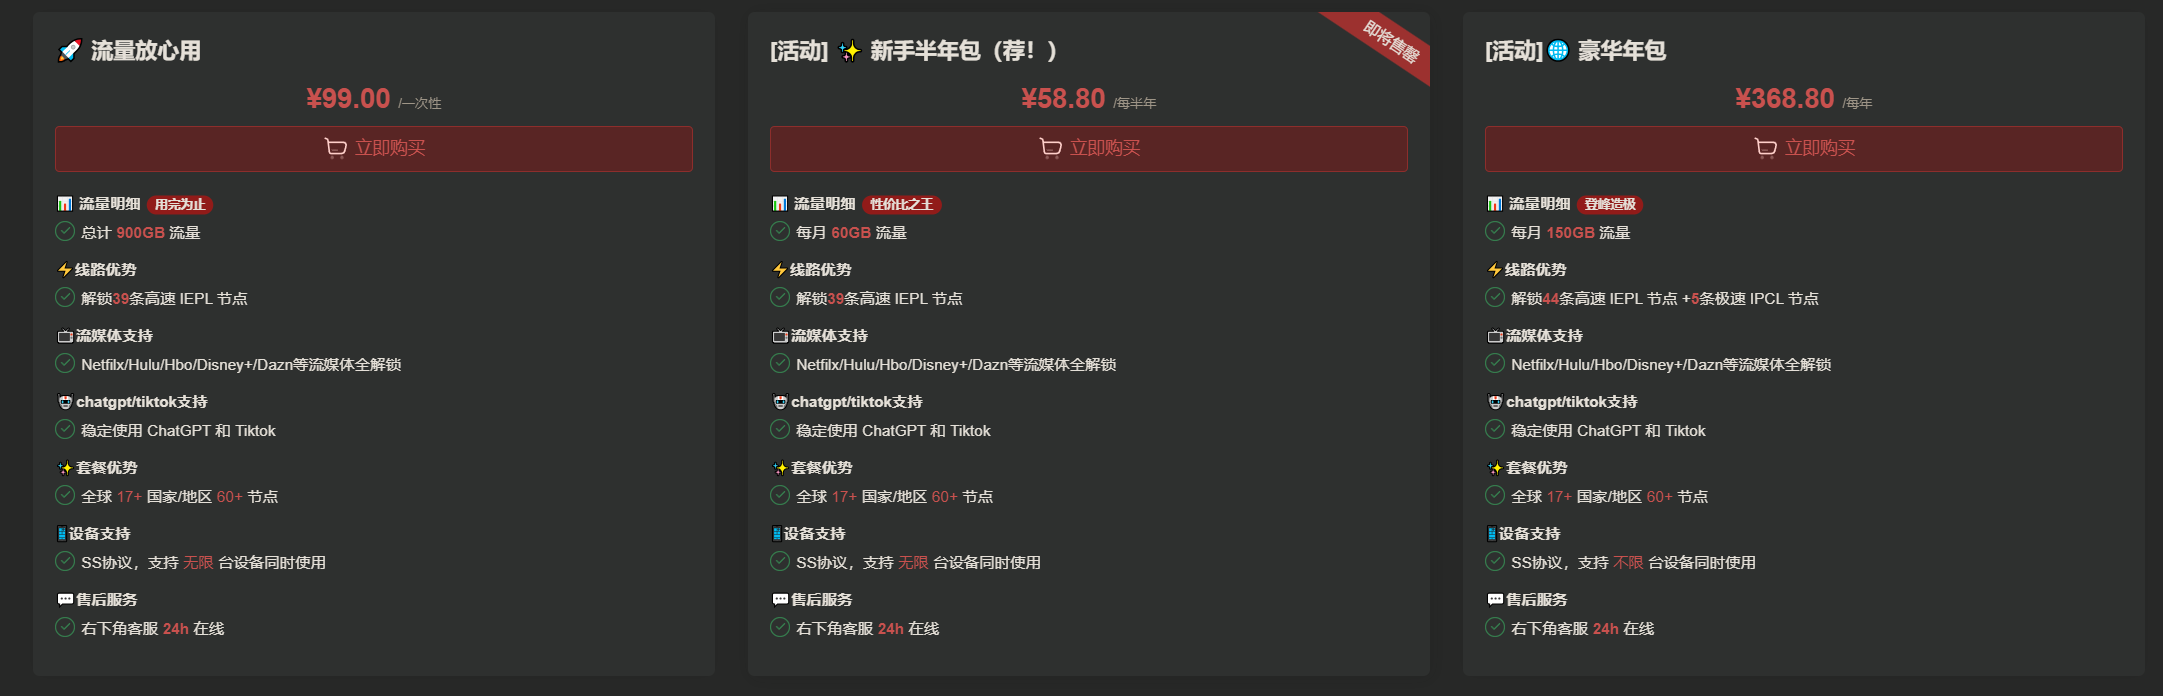
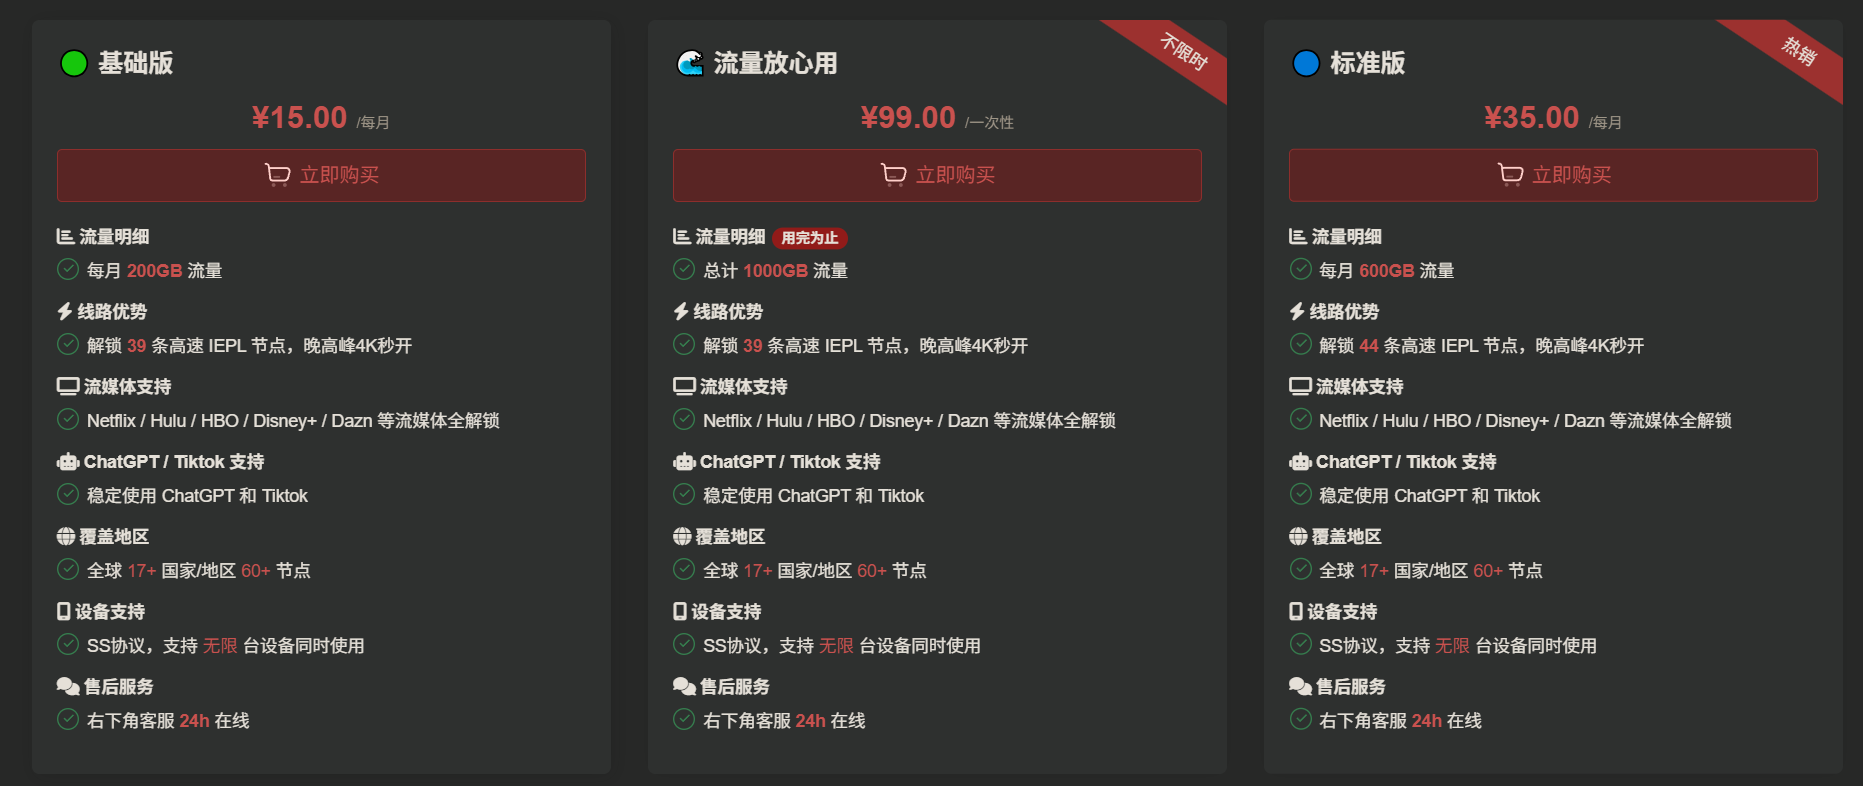
更新九霄云价格

diff --git a/docs/机场推荐/vpn.md b/docs/机场推荐/vpn.md
@@ -54,7 +54,7 @@ permalink: /posts/vpn/
 |[TNT](#tnt)|[https://ermaozi01.tntvipaff.cc](https://ermaozi01.tntvipaff.cc/#/register?code=f1EyPwf3)|无|10元60g/月(季付)|❌不支持|[telegram](https://t.me/TNTCloud2)|
 |[加速啦](#加速啦)|[https://jiasu.la/?r=39116](https://jiasu.la/?r=39116)| 1G 不限时 |10元 80G/月|✔支持|[telegram](https://t.me/jiasu_la)|
 |[冲上云霄](#冲上云霄)|[https://cpdd.one](https://cpdd.one/?r=32083)| 1天 1G |5元 80G/30天|✔支持|[telegram](https://t.me/vpnpn123)|
-|[九霄云](#九霄云)|[https://九九九.吉祥结.中国](https://shop.starpro.one/#/register?code=ZXzjv7oD)| 2天 6G |16.8元 80G/月|✔支持|[QQ群](https://qm.qq.com/q/EzY3dgKhIA)|
+|[九霄云](#九霄云)|[https://shop.starpro.one](https://shop.starpro.one/#/register?code=ZXzjv7oD)| 2天 6G |15元 200G/月|✔支持|[QQ群](https://qm.qq.com/q/EzY3dgKhIA)|
 |[掌中世界](#掌中世界)|[https://www.zzsjjsq.com](https://www.zzsjjsq.com/user/register?code=S74QiRGN)| 无 | 18元 100G/月|❌不支持|暂无|
 |[白羊星](#白羊星)|[https://baiyangxing.com](https://baiyangxing.com/#/register?code=gelkjfjz)| 7天 10G | 12元 100G/月|✔支持|暂无|
 |[XSUS](#xsus)|[https://xs-us.xyz](https://xs-us.xyz/register?code=xJFcT1Dw)| 无 |8元 168G/30天|✔支持|[telegram](https://t.me/xsusvpn)|
@@ -170,6 +170,15 @@ xxyun加速特性如下：
 
 奈云机场是绝对的老牌机场，已稳定运营6年以上未出现过负面评价，节点数量非常多，足以满足大部分用户的需求。支持支付宝、微信支付。
 
+| 套餐 | 价格 | 流量 | 购买地址 |
+| --- | --- | --- | --- |
+| Basic-基础套餐(特惠) | ¥128.00/每年 | 168G/月 | [点击购买](https://www.v2ny.me?path=register&code=FNAu1FWB) |
+| Pro-进阶套餐 | ¥28.00 /每月 | 388GB/月 | [点击购买](https://www.v2ny.me?path=register&code=FNAu1FWB) |
+| Max-专业套餐 | ¥49.00 /每月 | 788GB/月 | [点击购买](https://www.v2ny.me?path=register&code=FNAu1FWB) |
+| 280G [按量计费] | ¥98.00 /一次性 | 280GB/不限时 | [点击购买](https://www.v2ny.me?path=register&code=FNAu1FWB) |
+| 680G [按量计费] | ¥218.00 /一次性 | 680GGB/不限时 | [点击购买](https://www.v2ny.me?path=register&code=FNAu1FWB) |
+| 2048G [按量计费] | ¥498.00 /一次性 | 2048GGB/不限时 | [点击购买](https://www.v2ny.me?path=register&code=FNAu1FWB) |
+
 ---
 
 ### okanc
@@ -183,6 +192,12 @@ okanc官网地址：[okanc.com](https://www.okanc.com/index.php#/register?code=3
 最便宜的订阅有46元 328G/月。
 
 okanc机场是一个新机场，但是与奈云同宗同源，有奈云的技术积累以及信誉保障，可以放心购买。节点主打高质量，速度快，延迟低。只是价格偏贵，适合电商、游戏等高需求用户。
+
+|套餐|价格|流量|购买地址|
+|---|---|---|---|
+|Pro版|46元/月|328GB/月|[点击购买](https://www.okanc.com/index.php#/register?code=3YK7Np6R)|
+|Max版|50元/月|600GB/月|[点击购买](https://www.okanc.com/index.php#/register?code=3YK7Np6R)|
+|MAX+极致版|88元/月|1024GB/月|[点击购买](https://www.okanc.com/index.php#/register?code=3YK7Np6R)|
 
 ---
 
@@ -409,7 +424,7 @@ xxai官网地址：[xxai.uk](https://xx-ai.co?invite_code=K2TpsDcg)
 
 ### 九霄云
 
-九霄云官网地址：[九九九.吉祥结.中国](https://shop.starpro.one/#/register?code=ZXzjv7oD)
+九霄云官网地址：[https://shop.starpro.one](https://shop.starpro.one/#/register?code=ZXzjv7oD)
 
 邀请码：ZXzjv7oD
 
@@ -417,12 +432,19 @@ xxai官网地址：[xxai.uk](https://xx-ai.co?invite_code=K2TpsDcg)
 
 试用：8G 2天
 
-最便宜的订阅有16.8元 80G/月。
+最便宜的订阅有15元 200G/月。
 
 服务好，回购率高，基本上是5分钟以内客服就回复了.
 
 同时性价比高，支持支付宝、微信支付。
 
+| 套餐 | 价格 | 流量 | 购买地址 |
+| --- | --- | --- | --- |
+|基础版|¥15.00 /每月|200GB| [点击购买](https://shop.starpro.one/#/register?code=ZXzjv7oD) |
+|流量放心用|¥99.00 /一次性|1000GB| [点击购买](https://shop.starpro.one/#/register?code=ZXzjv7oD) |
+|标准版|¥35.00 /每月|600GB| [点击购买](https://shop.starpro.one/#/register?code=ZXzjv7oD) |
+|顶配版|¥60.00 /每月|1500GB| [点击购买](https://shop.starpro.one/#/register?code=ZXzjv7oD) |
+|海外项目线路|¥680.00 /每月|10TB| [点击购买](https://shop.starpro.one/#/register?code=ZXzjv7oD) |
 
 ---
 

diff --git a/docs/机场推荐/机场推荐九霄云.md b/docs/机场推荐/机场推荐九霄云.md
@@ -26,13 +26,22 @@ tags:
 
 ## 九霄云机场简介
 
-最便宜的订阅有16.8元 80G/月。
+最便宜的订阅有15元 200G/月。
 
 九霄云优惠码：`9xiaoyyds` 9折优惠
 
 服务好，回购率高，基本上是5分钟以内客服就回复了.
 
 同时性价比高，支持支付宝、微信支付。
+
+| 套餐 | 价格 | 流量 | 购买地址 |
+| --- | --- | --- | --- |
+|基础版|¥15.00 /每月|200GB| [点击购买](https://shop.starpro.one/#/register?code=ZXzjv7oD) |
+|流量放心用|¥99.00 /一次性|1000GB| [点击购买](https://shop.starpro.one/#/register?code=ZXzjv7oD) |
+|标准版|¥35.00 /每月|600GB| [点击购买](https://shop.starpro.one/#/register?code=ZXzjv7oD) |
+|顶配版|¥60.00 /每月|1500GB| [点击购买](https://shop.starpro.one/#/register?code=ZXzjv7oD) |
+|海外项目线路|¥680.00 /每月|10TB| [点击购买](https://shop.starpro.one/#/register?code=ZXzjv7oD) |
+
 
 ![九霄云价格](images/机场推荐九霄云/image.png)
 
